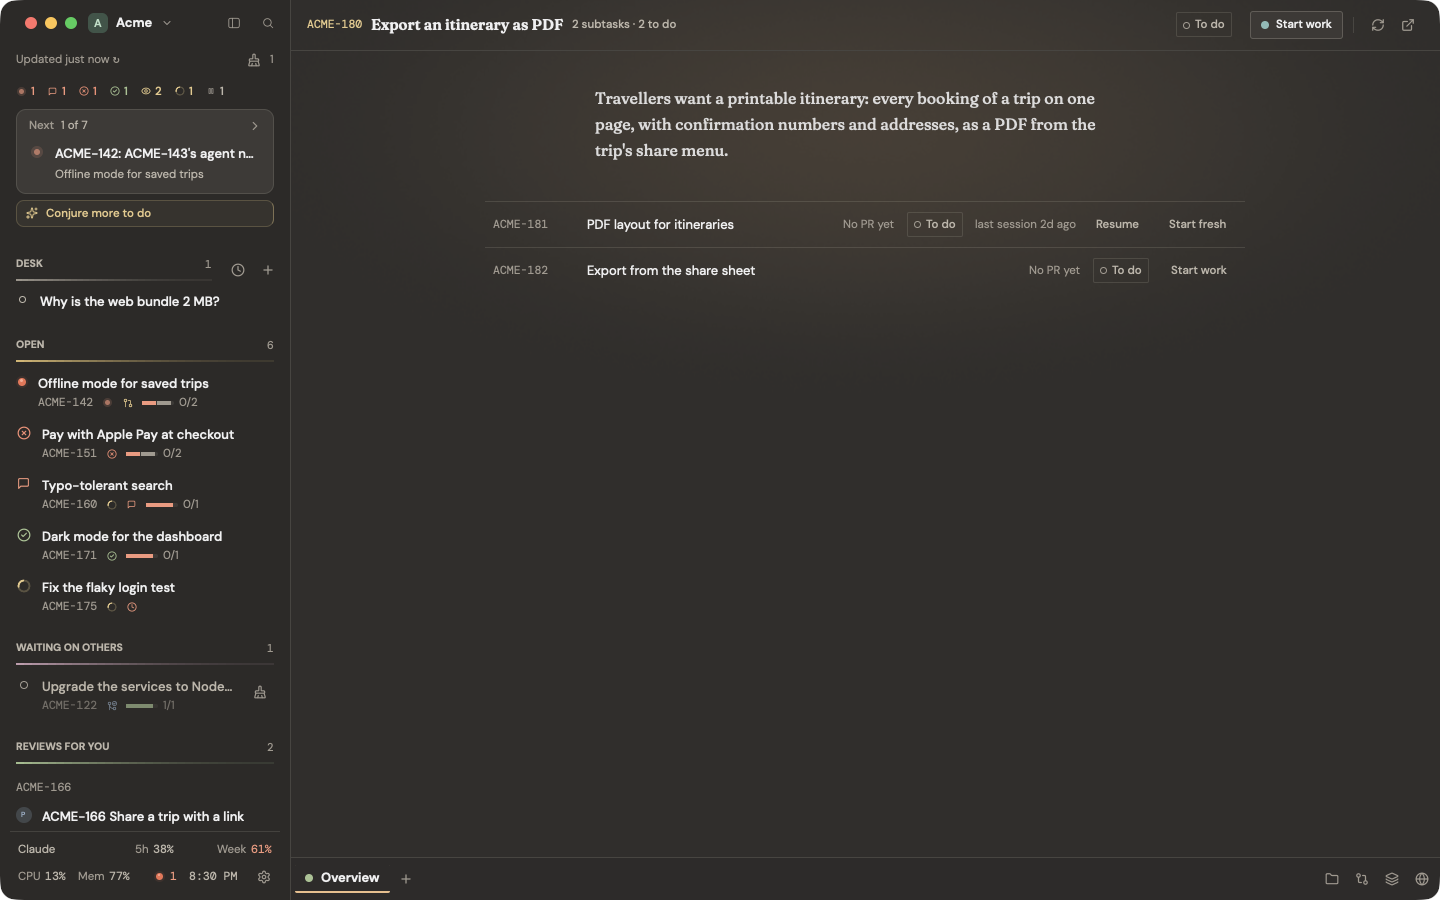
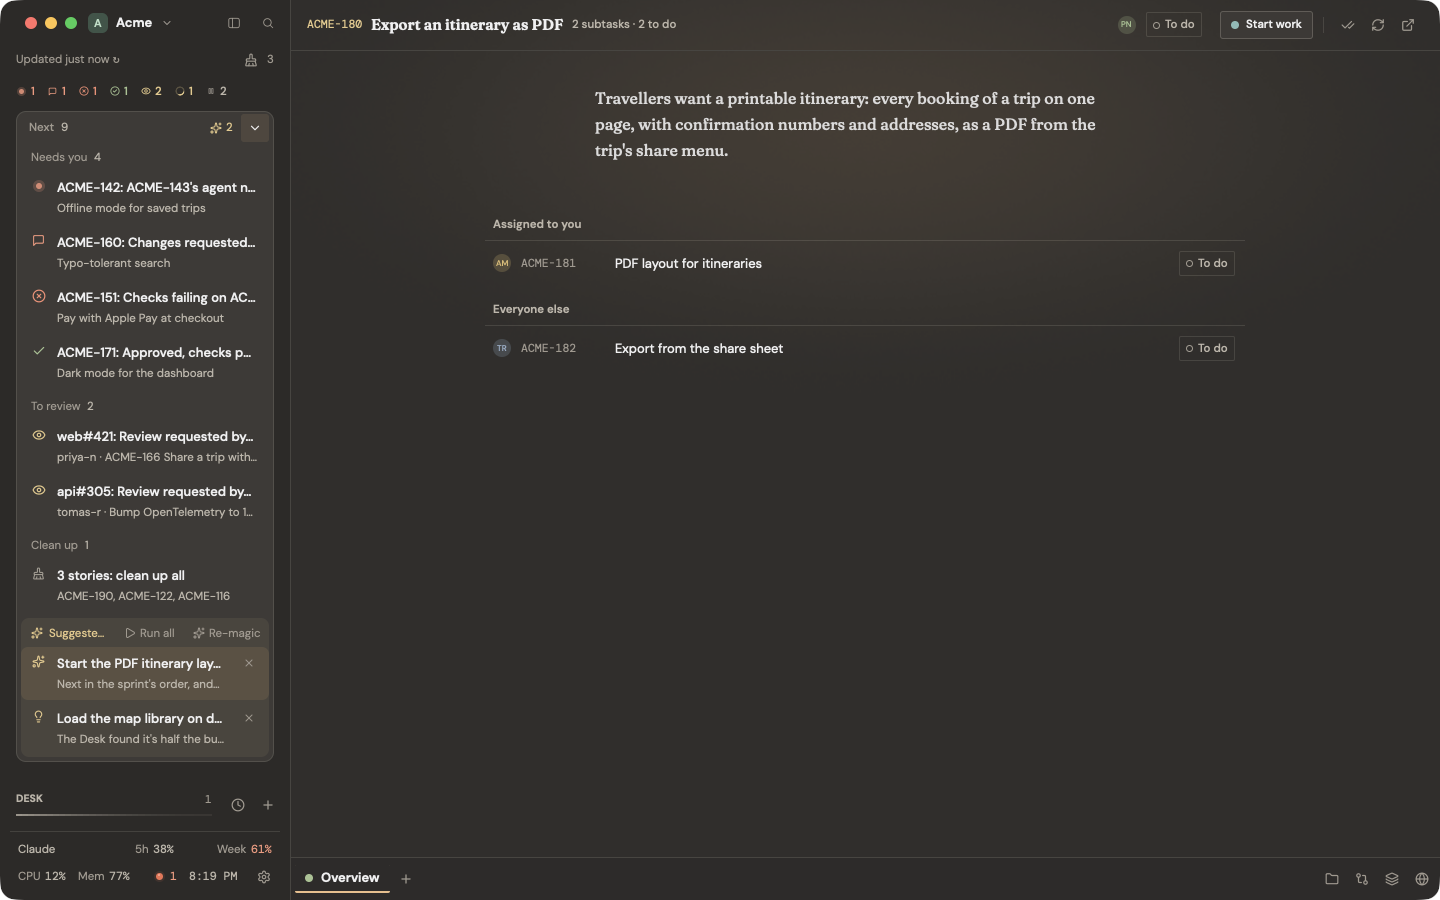
[docs] retake the readme's screenshots on today's kelpie, without peek
The shots were taken before about 150 changes to the views (Next's card
and queue, labels and the subtasks' line on story rows, one mark per
agent state, the reworded UI text). Retaken from the demo at 1440x900,
zoom 1, with the window buttons. None shows Peek, which is about to be
reworked (#164): the story shot is now a story whose agent is working
rather than one asking. The descriptions say what each shot now shows.

diff --git a/README.md b/README.md
@@ -10,7 +10,7 @@ Layouts and mods for [Herdr](https://herdr.dev) built around profiles and storie
 - `mods/kelpie`: every Kelpie view (sidebar, story header, Changes, tab bar, footer, dialogs, skins)
 - `mods/kelpie-artifacts`: the Artifacts panel and the Screenshots view
 
-![A story whose agent is waiting on a permission prompt: the story's description above, the sidebar's stories each marked with what they need](docs/screenshots/story.png)
+![A story whose agent is at work: the story's description above its agent's terminal, the sidebar's stories each marked with what they need](docs/screenshots/story.png)
 
 ## A look around
 
@@ -20,7 +20,7 @@ Each story's pull requests and uncommitted work, file by file, with a review's p
 
 Next takes you to whatever needs you, most urgent first. Claude can add its own picks from the sprint, the reviews waiting on you and the repos you work in:
 
-![The Next queue opened: what needs you, a finished story to clean up, and three picks from Claude](docs/screenshots/next.png)
+![The Next queue opened: what needs you, the reviews waiting on you, finished stories to clean up, and Claude's picks](docs/screenshots/next.png)
 
 A review waiting for you, before any agent starts on it:
 
@@ -28,7 +28,7 @@ A review waiting for you, before any agent starts on it:
 
 A story nobody has started yet:
 
-![A story not started: its description, and its subtasks each with what can be done next (Start work, or Resume an earlier session)](docs/screenshots/overview.png)
+![A story not started: its description and its subtasks, yours first, with Start work in its header](docs/screenshots/overview.png)
 
 `Kelpie-Plain` is the same layout without the skin:
 
